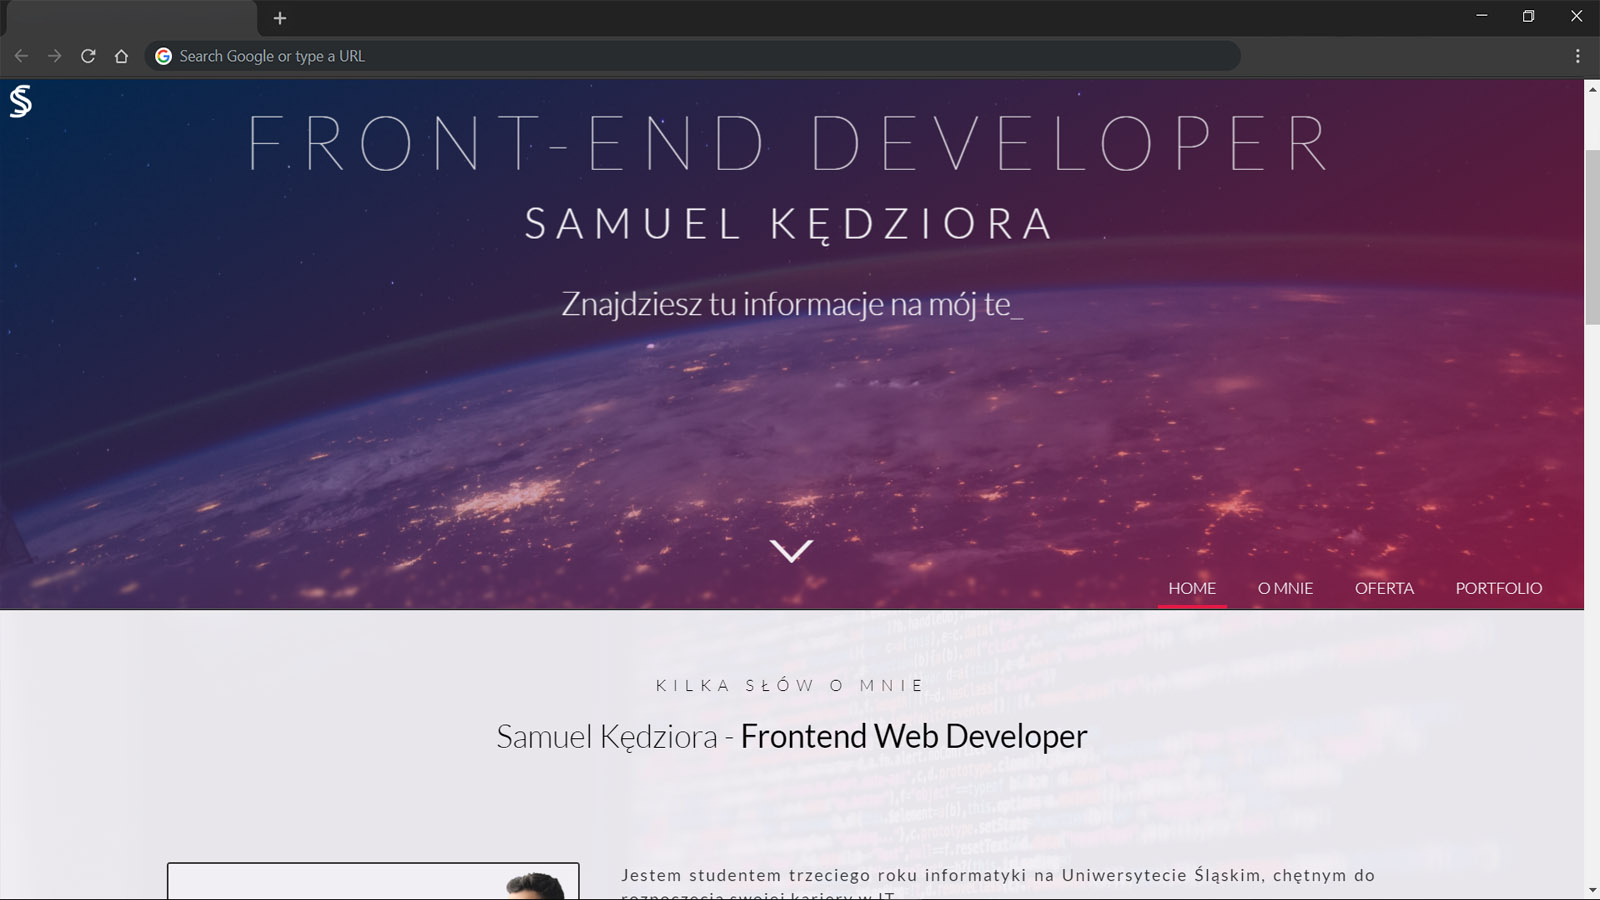
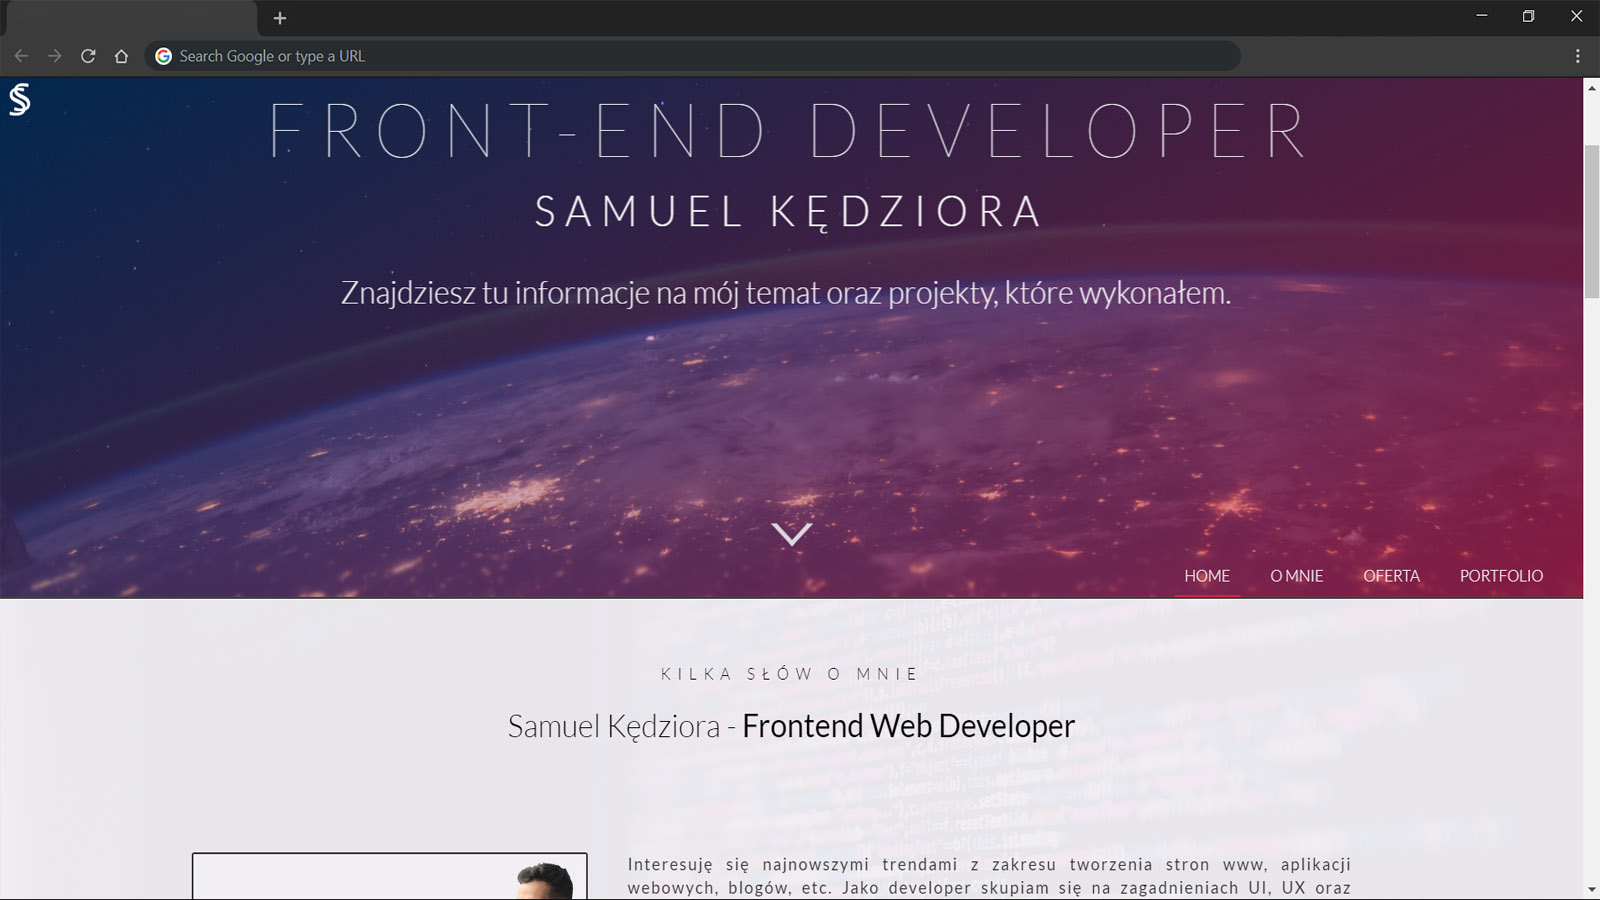
about-me actualisation

diff --git a/src/components/Content/About/About.js b/src/components/Content/About/About.js
@@ -22,22 +22,7 @@ const Contact = props => {
           </div>
           <div className="about-me__text">
             <p className="about-me__text__paragraph">
-              Jestem studentem trzeciego roku informatyki na&nbsp;Uniwersytecie
-              Śląskim, chętnym do rozpoczęcia swojej kariery w&nbsp;IT.
-            </p>
-            <p className="about-me__text__paragraph">
-              Moim celem jest zdobywanie praktycznego doświadczenia
-              w&nbsp;różnych technologiach webowych. Interesują mnie trendy
-              z&nbsp;zakresu tworzenia stron www, aplikacji webowych, blogów
-              oraz sklepów internetowych, jak i&nbsp;zagadnień z&nbsp;UI oraz
-              UX. Obecnie rozwijam swoje umiejętności głównie ze&nbsp;strony
-              front-end'u i&nbsp;w&nbsp;mniejszym stopniu ze&nbsp;strony
-              back-end’u.
-            </p>
-            <p className="about-me__text__paragraph">
-              Osobiście jestem bardzo pracowitą osobą, która pasjonuje się
-              nowymi technologiami i&nbsp;koncentruje na&nbsp;rozwoju osobistym.
-              Umiem pracować samodzielnie jak i&nbsp;w&nbsp;zespole.
+            Interesuję się&nbsp;najnowszymi trendami z&nbsp;zakresu tworzenia stron www, aplikacji webowych, blogów, etc. Jako developer skupiam się&nbsp;na&nbsp;zagadnieniach UI, UX oraz dbam o&nbsp;to, aby strony działały płynnie i&nbsp;były dostosowane do&nbsp;wyświetlania na&nbsp;każdym urządzeniu. W&nbsp;rozwijaniu swoich kompetencji koncentruję się&nbsp;głównie na&nbsp;technologiach front-endowych i&nbsp;w&nbsp;mniejszym stopniu na&nbsp;technologiach back-endowych. Do&nbsp;każdego projektu podchodzę indywidualnie. Stawiam na&nbsp;komunikację z&nbsp;klientem, znajdując najlepsze rozwiązania, spełniające jego potrzeby i&nbsp;umożliwiające dostarczenie projektu na&nbsp;czas. 
             </p>
           </div>
         </div>
@@ -72,6 +57,7 @@ const Contact = props => {
             <h3 className="skills__row__title">Oprogramowanie</h3>
             <ul className="skills__row__list">
               <li className="skills__row__list__item">Visual Studio Code</li>
+              <li className="skills__row__list__item">Eclipse</li>
               <li className="skills__row__list__item">Photoshop</li>
               <li className="skills__row__list__item">PhpStorm</li>
             </ul>
